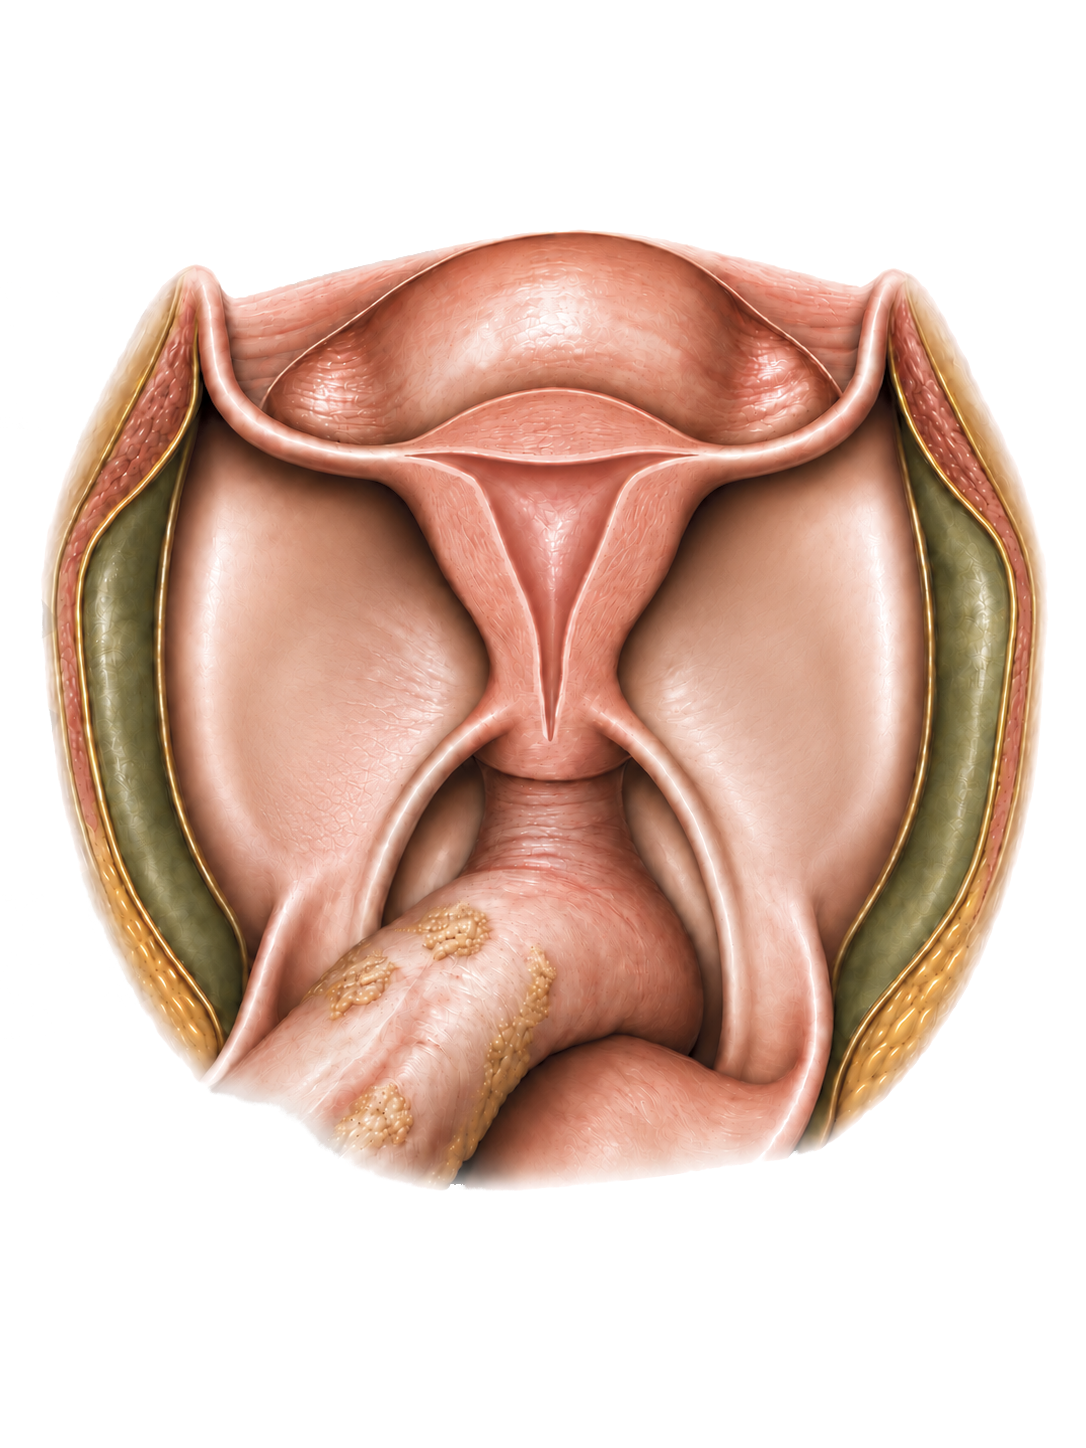
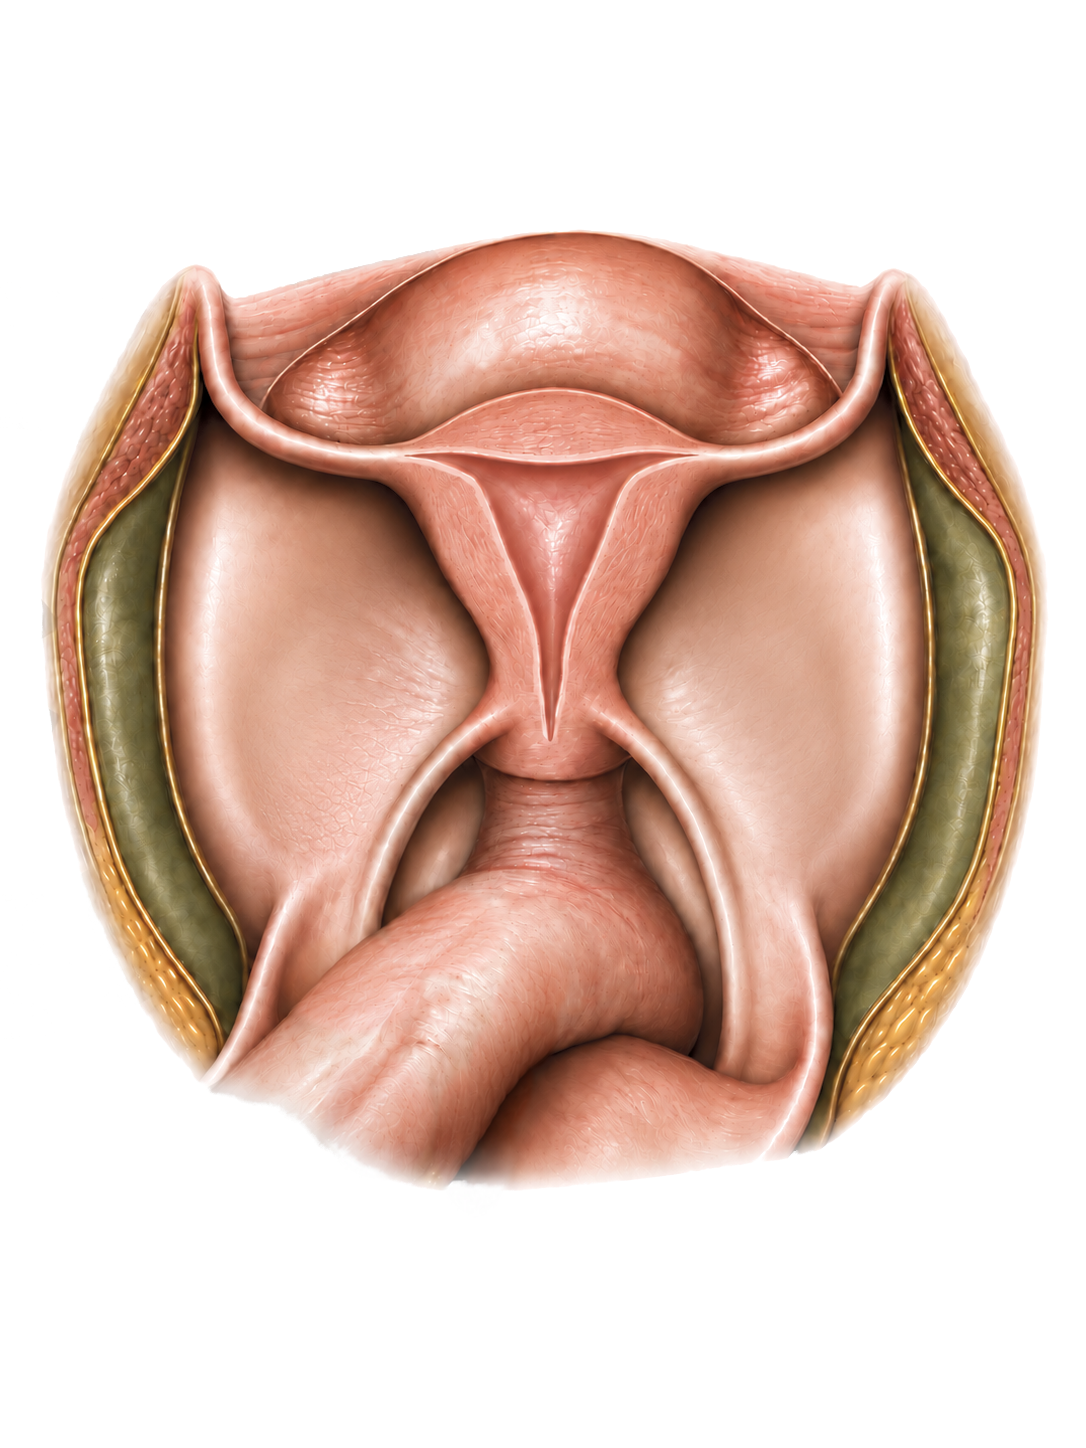
Remove gordura sobre o reto dos mapas coronais

Changed region(s): [[0.3039, 0.6526, 0.5166, 0.8391], [0.2735, 0.6215, 0.4558, 0.7148]]

diff --git a/app.html b/app.html
@@ -137,10 +137,10 @@
           <div class="mapas-grid">
             <figure class="mapa-visual" data-vista="coronal">
               <img
-                src="assets/mapa-base-coronal-aberto.png"
+                src="assets/mapa-base-coronal-aberto.png?v=reto-20261019"
                 data-mapa-base
-                data-src-clinica="assets/mapa-base-coronal-aberto.png"
-                data-src-visitante="assets/mapa-base-coronal-aberto-visitante.png"
+                data-src-clinica="assets/mapa-base-coronal-aberto.png?v=reto-20261019"
+                data-src-visitante="assets/mapa-base-coronal-aberto-visitante.png?v=reto-20261019"
                 alt="Mapa-base anatômico coronal sem lesões"
               />
               <div class="camada-lesoes" data-camada-lesoes="coronal" aria-label="Lesões representadas na vista coronal"></div>
@@ -498,7 +498,7 @@
           <button class="botao botao--secundario" type="button" data-editar-vista="coronal" aria-pressed="true">Editar vista coronal</button>
           <figure class="mapa-visual mapa-editor" data-mapa-editor="coronal">
             <div class="mapa-editor__desenho">
-              <img src="assets/mapa-base-coronal-aberto-visitante.png" data-mapa-base data-src-clinica="assets/mapa-base-coronal-aberto.png" data-src-visitante="assets/mapa-base-coronal-aberto-visitante.png" alt="Mapa anatômico coronal sem lesões" draggable="false" />
+              <img src="assets/mapa-base-coronal-aberto-visitante.png?v=reto-20261019" data-mapa-base data-src-clinica="assets/mapa-base-coronal-aberto.png?v=reto-20261019" data-src-visitante="assets/mapa-base-coronal-aberto-visitante.png?v=reto-20261019" alt="Mapa anatômico coronal sem lesões" draggable="false" />
               <canvas class="mapa-editor__assinatura" data-assinatura-manual width="1086" height="1448" role="img" aria-label="Assinatura do médico" hidden></canvas>
               <div class="mapa-editor__camada" data-camada-editor="coronal" aria-label="Lesões adicionadas ao mapa coronal"></div>
             </div>
@@ -534,7 +534,7 @@
           <button class="botao botao--secundario" type="button" data-editar-vista="ooforectomia-direita" aria-pressed="false">Editar Ooforectomia à direita</button>
           <figure class="mapa-visual mapa-editor" data-mapa-editor="ooforectomia-direita">
             <div class="mapa-editor__desenho">
-              <img src="assets/mapas-especiais/ooforectomias-v2/ooforectomia-direita-neutro.png" data-mapa-base data-src-clinica="assets/mapas-especiais/ooforectomias-v2/ooforectomia-direita-centrus.png" data-src-visitante="assets/mapas-especiais/ooforectomias-v2/ooforectomia-direita-neutro.png" alt="Mapa anatômico: Ooforectomia à direita" draggable="false" loading="lazy" />
+              <img src="assets/mapas-especiais/ooforectomias-v2/ooforectomia-direita-neutro.png?v=reto-20261019" data-mapa-base data-src-clinica="assets/mapas-especiais/ooforectomias-v2/ooforectomia-direita-centrus.png?v=reto-20261019" data-src-visitante="assets/mapas-especiais/ooforectomias-v2/ooforectomia-direita-neutro.png?v=reto-20261019" alt="Mapa anatômico: Ooforectomia à direita" draggable="false" loading="lazy" />
               <canvas class="mapa-editor__assinatura" data-assinatura-manual width="1086" height="1448" role="img" aria-label="Assinatura do médico" hidden></canvas>
               <div class="mapa-editor__camada" data-camada-editor="ooforectomia-direita" aria-label="Lesões adicionadas ao mapa Ooforectomia à direita"></div>
             </div>
@@ -546,7 +546,7 @@
           <button class="botao botao--secundario" type="button" data-editar-vista="ooforectomia-esquerda" aria-pressed="false">Editar Ooforectomia à esquerda</button>
           <figure class="mapa-visual mapa-editor" data-mapa-editor="ooforectomia-esquerda">
             <div class="mapa-editor__desenho">
-              <img src="assets/mapas-especiais/ooforectomias-v2/ooforectomia-esquerda-neutro.png" data-mapa-base data-src-clinica="assets/mapas-especiais/ooforectomias-v2/ooforectomia-esquerda-centrus.png" data-src-visitante="assets/mapas-especiais/ooforectomias-v2/ooforectomia-esquerda-neutro.png" alt="Mapa anatômico: Ooforectomia à esquerda" draggable="false" loading="lazy" />
+              <img src="assets/mapas-especiais/ooforectomias-v2/ooforectomia-esquerda-neutro.png?v=reto-20261019" data-mapa-base data-src-clinica="assets/mapas-especiais/ooforectomias-v2/ooforectomia-esquerda-centrus.png?v=reto-20261019" data-src-visitante="assets/mapas-especiais/ooforectomias-v2/ooforectomia-esquerda-neutro.png?v=reto-20261019" alt="Mapa anatômico: Ooforectomia à esquerda" draggable="false" loading="lazy" />
               <canvas class="mapa-editor__assinatura" data-assinatura-manual width="1086" height="1448" role="img" aria-label="Assinatura do médico" hidden></canvas>
               <div class="mapa-editor__camada" data-camada-editor="ooforectomia-esquerda" aria-label="Lesões adicionadas ao mapa Ooforectomia à esquerda"></div>
             </div>
@@ -558,7 +558,7 @@
           <button class="botao botao--secundario" type="button" data-editar-vista="ooforectomia-bilateral" aria-pressed="false">Editar Ooforectomia bilateral</button>
           <figure class="mapa-visual mapa-editor" data-mapa-editor="ooforectomia-bilateral">
             <div class="mapa-editor__desenho">
-              <img src="assets/mapas-especiais/bilateral-cor-v3/ooforectomia-bilateral-neutro.png" data-mapa-base data-src-clinica="assets/mapas-especiais/bilateral-cor-v3/ooforectomia-bilateral-centrus.png" data-src-visitante="assets/mapas-especiais/bilateral-cor-v3/ooforectomia-bilateral-neutro.png" alt="Mapa anatômico: Ooforectomia bilateral" draggable="false" loading="lazy" />
+              <img src="assets/mapas-especiais/bilateral-cor-v3/ooforectomia-bilateral-neutro.png?v=reto-20261019" data-mapa-base data-src-clinica="assets/mapas-especiais/bilateral-cor-v3/ooforectomia-bilateral-centrus.png?v=reto-20261019" data-src-visitante="assets/mapas-especiais/bilateral-cor-v3/ooforectomia-bilateral-neutro.png?v=reto-20261019" alt="Mapa anatômico: Ooforectomia bilateral" draggable="false" loading="lazy" />
               <canvas class="mapa-editor__assinatura" data-assinatura-manual width="1086" height="1448" role="img" aria-label="Assinatura do médico" hidden></canvas>
               <div class="mapa-editor__camada" data-camada-editor="ooforectomia-bilateral" aria-label="Lesões adicionadas ao mapa Ooforectomia bilateral"></div>
             </div>
@@ -570,7 +570,7 @@
           <button class="botao botao--secundario" type="button" data-editar-vista="kissing-ovaries" aria-pressed="false">Editar Kissing Ovaries</button>
           <figure class="mapa-visual mapa-editor" data-mapa-editor="kissing-ovaries">
             <div class="mapa-editor__desenho">
-              <img src="assets/mapas-especiais/kissing-ovaries-cor-v2/kissing-ovaries-neutro.png" data-mapa-base data-src-clinica="assets/mapas-especiais/kissing-ovaries-cor-v2/kissing-ovaries-centrus.png" data-src-visitante="assets/mapas-especiais/kissing-ovaries-cor-v2/kissing-ovaries-neutro.png" alt="Mapa anatômico: Kissing Ovaries" draggable="false" loading="lazy" />
+              <img src="assets/mapas-especiais/kissing-ovaries-cor-v2/kissing-ovaries-neutro.png?v=reto-20261019" data-mapa-base data-src-clinica="assets/mapas-especiais/kissing-ovaries-cor-v2/kissing-ovaries-centrus.png?v=reto-20261019" data-src-visitante="assets/mapas-especiais/kissing-ovaries-cor-v2/kissing-ovaries-neutro.png?v=reto-20261019" alt="Mapa anatômico: Kissing Ovaries" draggable="false" loading="lazy" />
               <canvas class="mapa-editor__assinatura" data-assinatura-manual width="1086" height="1448" role="img" aria-label="Assinatura do médico" hidden></canvas>
               <div class="mapa-editor__camada" data-camada-editor="kissing-ovaries" aria-label="Lesões adicionadas ao mapa Kissing Ovaries"></div>
             </div>
@@ -582,7 +582,7 @@
           <button class="botao botao--secundario" type="button" data-editar-vista="hidrosalpinge-direita" aria-pressed="false">Editar Hidrosalpinge direita</button>
           <figure class="mapa-visual mapa-editor" data-mapa-editor="hidrosalpinge-direita">
             <div class="mapa-editor__desenho">
-              <img src="assets/mapas-especiais/hidrosalpinge/hidrosalpinge-direita-neutro.png" data-mapa-base data-src-clinica="assets/mapas-especiais/hidrosalpinge/hidrosalpinge-direita-centrus.png" data-src-visitante="assets/mapas-especiais/hidrosalpinge/hidrosalpinge-direita-neutro.png" alt="Mapa anatômico: Hidrosalpinge direita" draggable="false" loading="lazy" />
+              <img src="assets/mapas-especiais/hidrosalpinge/hidrosalpinge-direita-neutro.png?v=reto-20261019" data-mapa-base data-src-clinica="assets/mapas-especiais/hidrosalpinge/hidrosalpinge-direita-centrus.png?v=reto-20261019" data-src-visitante="assets/mapas-especiais/hidrosalpinge/hidrosalpinge-direita-neutro.png?v=reto-20261019" alt="Mapa anatômico: Hidrosalpinge direita" draggable="false" loading="lazy" />
               <canvas class="mapa-editor__assinatura" data-assinatura-manual width="1086" height="1448" role="img" aria-label="Assinatura do médico" hidden></canvas>
               <div class="mapa-editor__camada" data-camada-editor="hidrosalpinge-direita" aria-label="Lesões adicionadas ao mapa Hidrosalpinge direita"></div>
             </div>
@@ -594,7 +594,7 @@
           <button class="botao botao--secundario" type="button" data-editar-vista="hidrosalpinge-esquerda" aria-pressed="false">Editar Hidrosalpinge esquerda</button>
           <figure class="mapa-visual mapa-editor" data-mapa-editor="hidrosalpinge-esquerda">
             <div class="mapa-editor__desenho">
-              <img src="assets/mapas-especiais/hidrosalpinge/hidrosalpinge-esquerda-neutro.png" data-mapa-base data-src-clinica="assets/mapas-especiais/hidrosalpinge/hidrosalpinge-esquerda-centrus.png" data-src-visitante="assets/mapas-especiais/hidrosalpinge/hidrosalpinge-esquerda-neutro.png" alt="Mapa anatômico: Hidrosalpinge esquerda" draggable="false" loading="lazy" />
+              <img src="assets/mapas-especiais/hidrosalpinge/hidrosalpinge-esquerda-neutro.png?v=reto-20261019" data-mapa-base data-src-clinica="assets/mapas-especiais/hidrosalpinge/hidrosalpinge-esquerda-centrus.png?v=reto-20261019" data-src-visitante="assets/mapas-especiais/hidrosalpinge/hidrosalpinge-esquerda-neutro.png?v=reto-20261019" alt="Mapa anatômico: Hidrosalpinge esquerda" draggable="false" loading="lazy" />
               <canvas class="mapa-editor__assinatura" data-assinatura-manual width="1086" height="1448" role="img" aria-label="Assinatura do médico" hidden></canvas>
               <div class="mapa-editor__camada" data-camada-editor="hidrosalpinge-esquerda" aria-label="Lesões adicionadas ao mapa Hidrosalpinge esquerda"></div>
             </div>
@@ -606,7 +606,7 @@
           <button class="botao botao--secundario" type="button" data-editar-vista="hidrosalpinge-bilateral" aria-pressed="false">Editar Hidrosalpinge bilateral</button>
           <figure class="mapa-visual mapa-editor" data-mapa-editor="hidrosalpinge-bilateral">
             <div class="mapa-editor__desenho">
-              <img src="assets/mapas-especiais/hidrosalpinge/hidrosalpinge-bilateral-neutro.png" data-mapa-base data-src-clinica="assets/mapas-especiais/hidrosalpinge/hidrosalpinge-bilateral-centrus.png" data-src-visitante="assets/mapas-especiais/hidrosalpinge/hidrosalpinge-bilateral-neutro.png" alt="Mapa anatômico: Hidrosalpinge bilateral" draggable="false" loading="lazy" />
+              <img src="assets/mapas-especiais/hidrosalpinge/hidrosalpinge-bilateral-neutro.png?v=reto-20261019" data-mapa-base data-src-clinica="assets/mapas-especiais/hidrosalpinge/hidrosalpinge-bilateral-centrus.png?v=reto-20261019" data-src-visitante="assets/mapas-especiais/hidrosalpinge/hidrosalpinge-bilateral-neutro.png?v=reto-20261019" alt="Mapa anatômico: Hidrosalpinge bilateral" draggable="false" loading="lazy" />
               <canvas class="mapa-editor__assinatura" data-assinatura-manual width="1086" height="1448" role="img" aria-label="Assinatura do médico" hidden></canvas>
               <div class="mapa-editor__camada" data-camada-editor="hidrosalpinge-bilateral" aria-label="Lesões adicionadas ao mapa Hidrosalpinge bilateral"></div>
             </div>
@@ -725,7 +725,7 @@
     <script src="app-auth.js?v=inserir-lados-todos-1"></script>
     <script src="prototipo.js?v=orgaos-1"></script>
     <script src="orgaos-deformar.js?v=1"></script>
-    <script src="orgaos-motor.js?v=1"></script>
+    <script src="orgaos-motor.js?v=reto-20261019"></script>
     <script src="orgaos-editor.js?v=1"></script>
     <script src="utero-motor.js?v=2"></script>
     <script src="utero-editor.js?v=2"></script>

diff --git a/orgaos-motor.js b/orgaos-motor.js
@@ -54,7 +54,7 @@ window.endomapaCriarOrgaos = async function(canvas) {
   ctx.restore();
   ctx.drawImage(camadas[lado].frente,g.x,g.y);
  }
- await Promise.all(Object.entries({base:'assets/mapa-base-coronal-aberto-visitante.png',fundo:'assets/mapas-especiais/bilateral-cor-v3/ooforectomia-bilateral-neutro.png'}).map(async([k,url])=>{imagens[k]=await carregar(url)}));
+ await Promise.all(Object.entries({base:'assets/mapa-base-coronal-aberto-visitante.png?v=reto-20261019',fundo:'assets/mapas-especiais/bilateral-cor-v3/ooforectomia-bilateral-neutro.png?v=reto-20261019'}).map(async([k,url])=>{imagens[k]=await carregar(url)}));
  Object.keys(grupos).forEach(prepararCamada);
  function renderizar(){
   ctx.clearRect(0,0,W,H);

diff --git a/tests/editor-manual-integrado.html b/tests/editor-manual-integrado.html
@@ -361,7 +361,7 @@
       preencher(tamanho, '5');
       verificar(foliculo.dataset.tamanho === '5', 'Controle deslizante também permite 5%');
       buscar('[data-modelo][data-nome="Cisto"]').click();
-      verificar(tamanho.min === '40', 'Outros modelos mantêm o limite anterior');
+      verificar(tamanho.min === '5', 'Cisto respeita o limite reduzido aprovado');
       foliculo.click();
       verificar(tamanho.value === '5' && tamanho.min === '5', 'Resselecionar restaura tamanho reduzido');
       await janela.endomapaCapturarMapaManual({ formato: 'image/png' });

diff --git a/ESPEC.md b/ESPEC.md
@@ -1,5 +1,7 @@
 # Especificação do MVP
 
+Correção da gordura sobre o reto (19/10/2026): Daniel autorizou aplicar o acabamento da prévia de hoje às imagens coronais. Removidos somente os agrupamentos amarelos sobre a superfície do reto/sigmoide nas 16 imagens usadas pelo coronal comum, ooforectomias, Kissing Ovaries e hidrossalpinges, nas versões neutra e Centrus. Edição produzida com imagegen a partir do coronal aberto e da prévia como referência; integração limitada por máscaras locais, com conferência de preservação dos pixels externos. Mantidos útero aberto, anatomias especiais, gordura lateral, dimensões e identidade visual. Endereços recebem versão para renovar o carregamento. Daniel autorizou a publicação de todos os oito modelos coronais, incluindo os especiais, em 19/10/2026. Testes do editor e PDF passaram; pixels externos à correção preservados nas 16 imagens.
+
 Relevo das aderências (18/10/2026): após aprovar o exemplo da Aderências 1, Daniel autorizou aplicar o acabamento às três aderências presentes na biblioteca e publicar. As imagens recebem contraste entre sombras marrons e reflexos nas fibras para maior volume aparente, com fundo transparente. Mantidos os nomes, tamanhos iniciais, proporções e endereços dos arquivos; identificadores de versão atualizados para carregar o novo acabamento. Imagens editadas com imagegen, usando a primeira aprovada como referência de acabamento para as demais.
 
 Integração aprovada da trompa sagital (18/10/2026): Daniel aprovou a emenda suavizada e autorizou incorporar e publicar a continuação fixa atrás do útero. O motor principal passa a usar `assets/trompa-sagital-fundo.png` nas máscaras locais de remoção do ramo anterior e sua sombra, mantendo o arco e a continuação aprovada. O corpo uterino é desenhado por cima. A captura sagital inclui a correção também no ângulo zero, para preservar a mesma aparência na tela, PNG e PDF. Esta decisão substitui o estado de prévia local das anotações abaixo.
